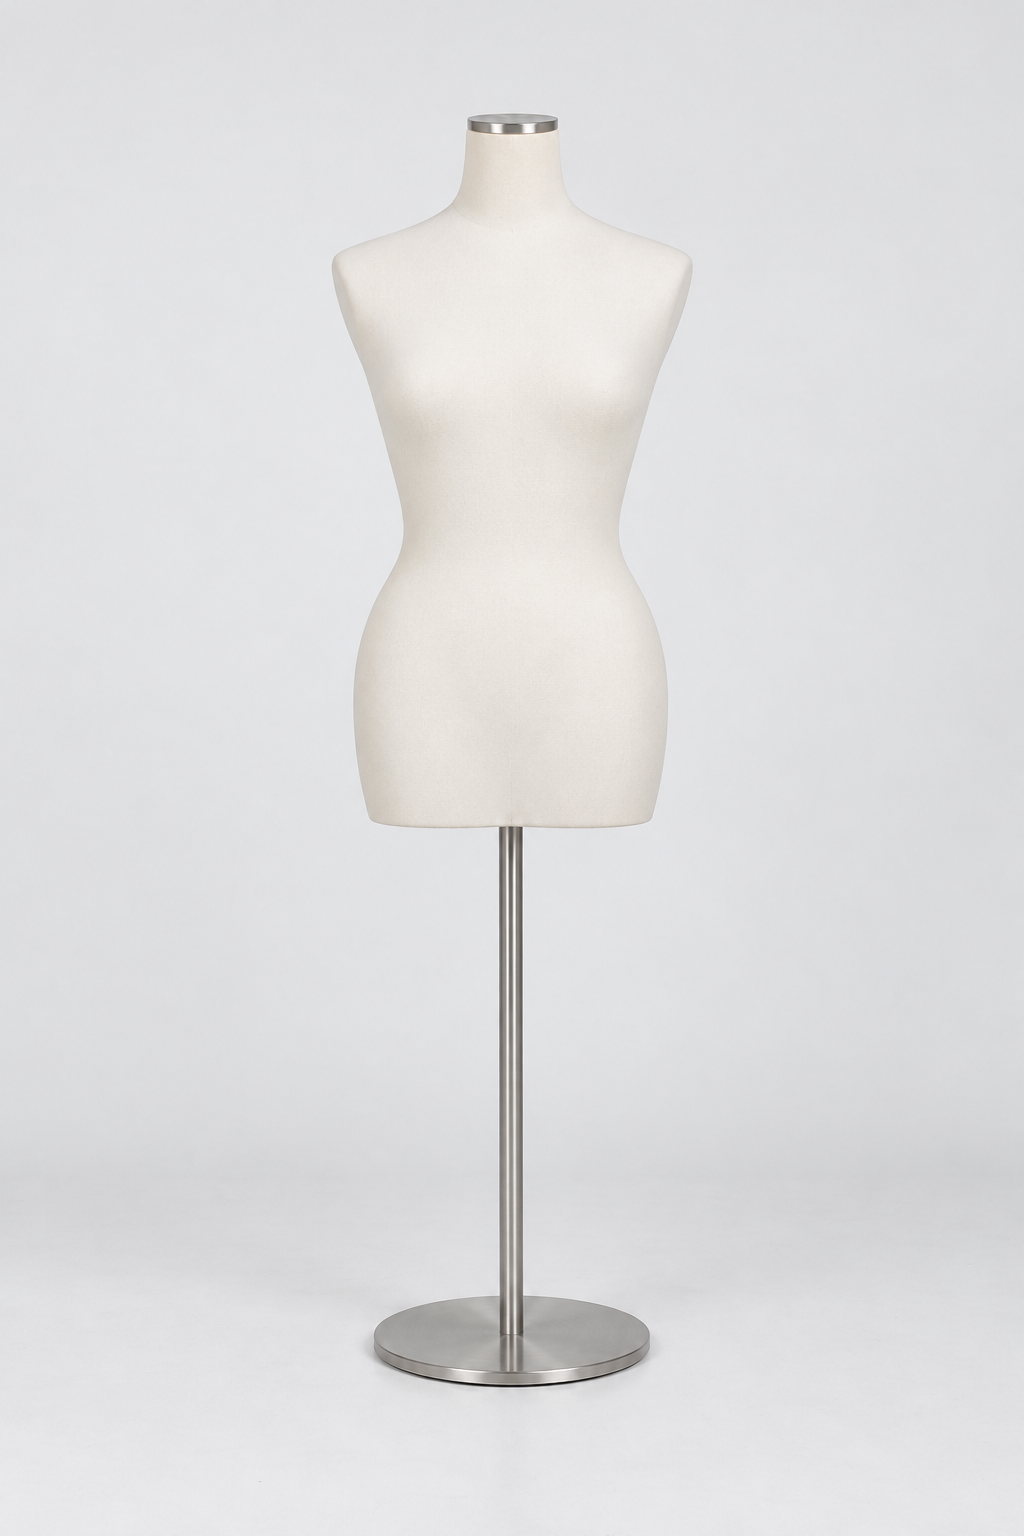
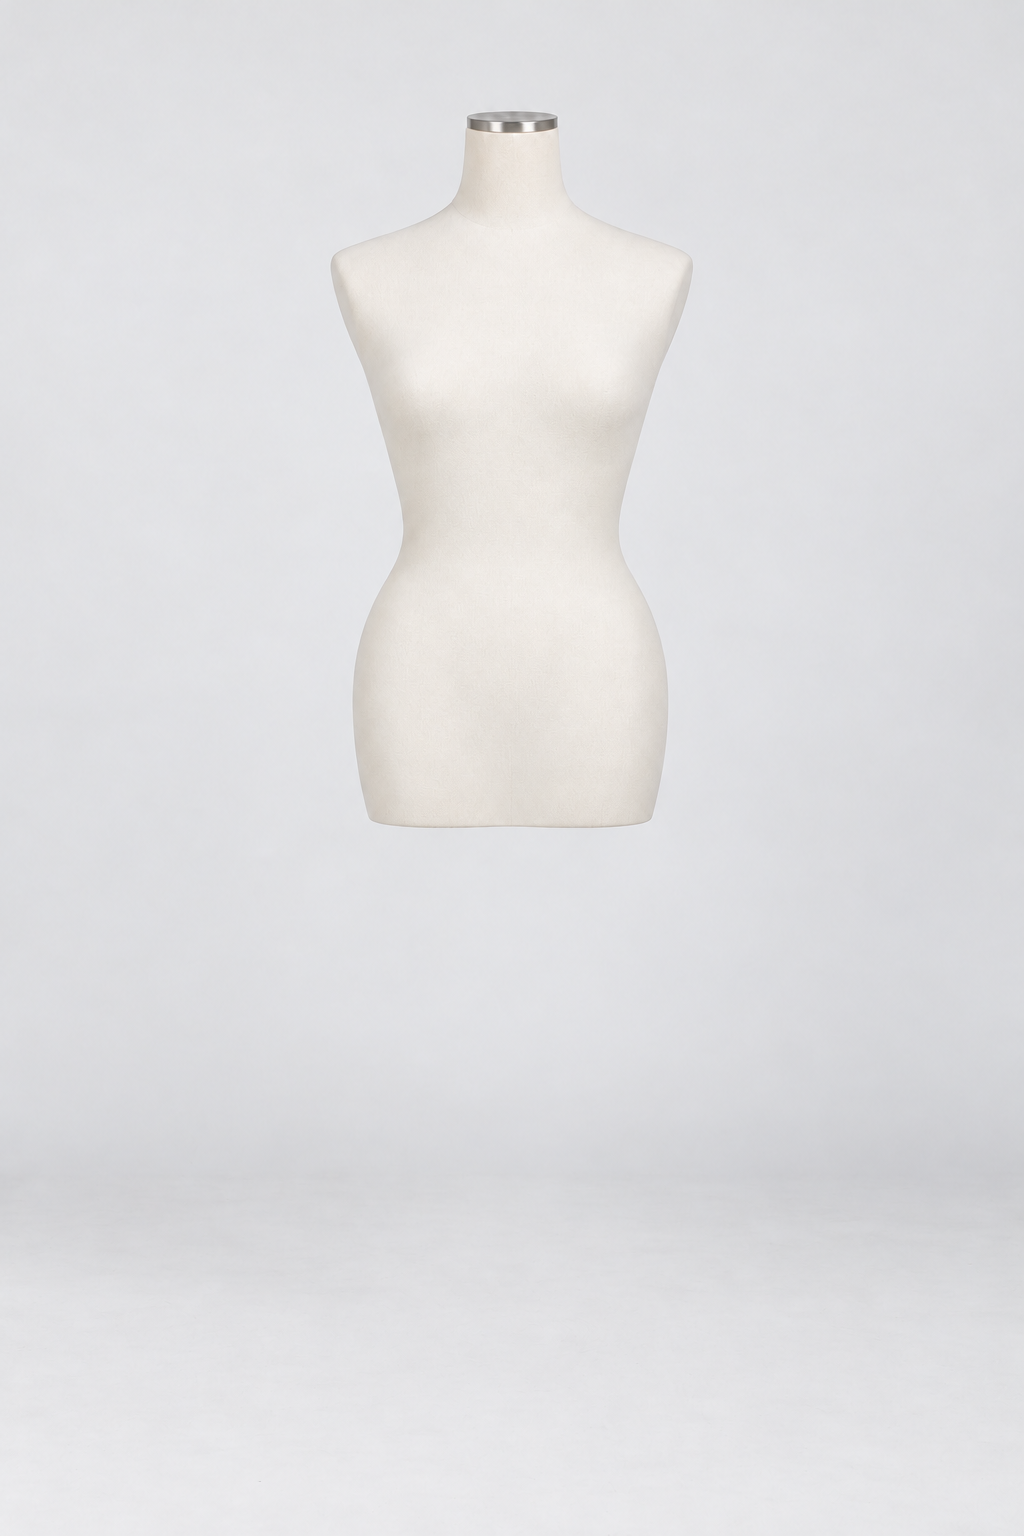
feat: generate standalone accessory images without mannequin stands

Changed region(s): [[0.3438, 0.5312, 0.6562, 0.9062], [0.4688, 0.0625, 0.5312, 0.0938]]

diff --git a/app/src/test/java/com/lolita/app/data/mannequin/MannequinGeneratorTest.kt b/app/src/test/java/com/lolita/app/data/mannequin/MannequinGeneratorTest.kt
@@ -1,11 +1,13 @@
 package com.lolita.app.data.mannequin
 
 import com.lolita.app.data.local.entity.Category
+import com.lolita.app.data.local.entity.CategoryGroup
 import com.lolita.app.data.local.entity.Item
 import com.lolita.app.data.local.entity.ItemStatus
 import com.lolita.app.data.tryon.TryOnGenerator
 import com.lolita.app.data.tryon.TryOnGenerationPhase
 import com.lolita.app.domain.model.MannequinRequest
+import com.lolita.app.domain.model.mannequinSubject
 import com.lolita.app.domain.model.TryOnRole
 import com.lolita.app.domain.model.TryOnSelection
 import kotlinx.coroutines.*
@@ -14,6 +16,45 @@ import org.junit.Test
 import java.io.File
 
 class MannequinGeneratorTest {
+    @Test fun accessorySendsOnlyItsSelectedPhotoWithoutAnyMannequinTemplate() = runBlocking {
+        Fixture().use { f ->
+            f.category = Category(id = 7, name = "袜子", group = CategoryGroup.ACCESSORY)
+            var uploaded = emptyList<ByteArray>()
+            var actualPrompt = ""
+            f.api = { _, images, prompt -> f.apiCalls++; uploaded = images; actualPrompt = prompt; "RESULT".toByteArray() }
+            f.generator().generate(f.request.copy(subject = mannequinSubject(f.category)))
+            assertEquals(1, f.apiCalls)
+            assertEquals(1, uploaded.size)
+            assertArrayEquals(byteArrayOf(1), uploaded.single())
+            assertTrue(actualPrompt.contains("\"袜子\""))
+            assertFalse(actualPrompt.contains("Edit image 1, the canonical empty warm-white tailoring mannequin"))
+            assertFalse(actualPrompt.contains("private name"))
+        }
+    }
+
+    @Test fun legacyDressRequestCannotSilentlyTurnIntoAnAccessoryRequest() = runBlocking {
+        Fixture().use { f ->
+            f.category = Category(id = 7, name = "KC", group = CategoryGroup.ACCESSORY)
+            f.api = { _, _, _ -> f.apiCalls++; "RESULT".toByteArray() }
+            val failure = runCatching { f.generator().generate(f.request) }.exceptionOrNull()
+            assertNotNull(failure)
+            assertEquals(0, f.apiCalls)
+        }
+    }
+
+    @Test fun renamedAccessoryDuringPreparationNeverReachesPaidTransport() = runBlocking {
+        Fixture().use { f ->
+            f.category = Category(id = 7, name = "KC", group = CategoryGroup.ACCESSORY)
+            val request = f.request.copy(subject = mannequinSubject(f.category))
+            f.beforePreparation = { f.category = f.category!!.copy(name = "鞋") }
+            f.api = { _, _, _ -> f.apiCalls++; "RESULT".toByteArray() }
+            val failure = runCatching { f.generator().generate(request) }.exceptionOrNull()
+            assertNotNull(failure)
+            assertTrue(failure!!.message.orEmpty().contains("分类"))
+            assertEquals(0, f.apiCalls)
+        }
+    }
+
     @Test fun staleDisclosedProviderCannotUploadOrProducePreview() = runBlocking {
         Fixture().use { f ->
             reject { f.generator().generate(f.request, expectedProvider = com.lolita.app.domain.model.ImageGenerationProvider.SEEDREAM) }
@@ -31,7 +72,9 @@ class MannequinGeneratorTest {
         var key = "sk-personal-key"
         var apiCalls = 0
         var saveCalls = 0
+        var beforePreparation: () -> Unit = {}
         var prepare: suspend (List<String>)->List<ByteArray> = { paths ->
+            beforePreparation()
             listOf("TEMPLATE".toByteArray()) + paths.map { File(it).readBytes() }
         }
         var api: suspend (String,List<ByteArray>,String)->ByteArray = { key, images, prompt ->
@@ -48,7 +91,8 @@ class MannequinGeneratorTest {
         fun generator() = MannequinGenerator(
             findItem={ item },findCategory={ category },readCredentials = { com.lolita.app.domain.model.ImageGenerationCredentials(com.lolita.app.domain.model.ImageGenerationProvider.OPENAI, key) },prepareImages={ prepare(it) },
             generateImage={ key, images, prompt -> api(key.apiKey,images,prompt) },savePreview={ save(it) },
-            discardPreview={ File(it).delete(); Unit }
+            discardPreview={ File(it).delete(); Unit },
+            prepareAccessoryImages={ paths -> beforePreparation(); paths.map { File(it).readBytes() } }
         )
         override fun close() { folder.deleteRecursively() }
     }

diff --git a/app/src/test/java/com/lolita/app/data/remote/MannequinApiTest.kt b/app/src/test/java/com/lolita/app/data/remote/MannequinApiTest.kt
@@ -1,0 +1,62 @@
+package com.lolita.app.data.remote
+
+import com.google.gson.JsonParser
+import com.lolita.app.domain.model.ImageGenerationCredentials
+import com.lolita.app.domain.model.ImageGenerationProvider
+import kotlinx.coroutines.runBlocking
+import org.junit.Assert.*
+import org.junit.Test
+import java.io.ByteArrayInputStream
+import java.io.ByteArrayOutputStream
+import java.net.HttpURLConnection
+import java.net.URL
+
+class MannequinApiTest {
+    private class Transport : HttpURLConnection(URL("https://example.invalid")) {
+        val uploaded = ByteArrayOutputStream()
+        override fun connect() = Unit
+        override fun disconnect() = Unit
+        override fun usingProxy() = false
+        override fun getResponseCode() = 200
+        override fun getOutputStream() = uploaded
+        override fun getInputStream() = ByteArrayInputStream("""{"data":[{"b64_json":"aW1hZ2U="}]}""".toByteArray())
+    }
+
+    @Test fun standaloneOnePhotoAndDressTwoPhotosReachEachProviderWithoutExtraTemplate() = runBlocking {
+        for (provider in ImageGenerationProvider.entries) for (count in listOf(1, 2)) {
+            val transport = Transport()
+            var calls = 0
+            var endpoint = ""
+            val open: (URL) -> HttpURLConnection = { calls++; endpoint = it.toString(); transport }
+            val api = ImageGenerationApi(TryOnImageApi(open), SeedreamImageApi(open))
+            val result = runCatching { api.generateMannequin(ImageGenerationCredentials(provider, "controlled-key"),
+                List(count) { "PHOTO$it".toByteArray() }, "selected product") }
+            assertTrue("$provider must accept $count selected display inputs", result.isSuccess)
+            assertArrayEquals("image".toByteArray(), result.getOrThrow())
+            assertEquals(1, calls)
+            val body = transport.uploaded.toString("UTF-8")
+            assertFalse(body.contains("controlled-key"))
+            if (provider == ImageGenerationProvider.SEEDREAM) {
+                assertEquals("https://ark.cn-beijing.volces.com/api/v3/images/generations", endpoint)
+                assertEquals(count, JsonParser.parseString(body).asJsonObject.getAsJsonArray("image").size())
+            } else {
+                assertEquals("https://api.openai.com/v1/images/edits", endpoint)
+                assertEquals(count, Regex("name=\"image\\[\\]\"").findAll(body).count())
+            }
+        }
+    }
+
+    @Test fun displayBoundaryRejectsZeroAndThreeInputsBeforeConnectionAndKeepsOldSingleInputBlocked() = runBlocking {
+        var calls = 0
+        val open: (URL) -> HttpURLConnection = { calls++; Transport() }
+        val api = ImageGenerationApi(TryOnImageApi(open), SeedreamImageApi(open))
+        for (provider in ImageGenerationProvider.entries) {
+            val credentials = ImageGenerationCredentials(provider, "controlled-key")
+            for (count in listOf(0, 3)) assertTrue(runCatching {
+                api.generateMannequin(credentials, List(count) { byteArrayOf(1) }, "display")
+            }.isFailure)
+            assertTrue(runCatching { api.generate(credentials, listOf(byteArrayOf(1)), "try on") }.isFailure)
+        }
+        assertEquals(0, calls)
+    }
+}

diff --git a/app/src/main/java/com/lolita/app/data/mannequin/MannequinGenerator.kt b/app/src/main/java/com/lolita/app/data/mannequin/MannequinGenerator.kt
@@ -6,7 +6,8 @@ import com.lolita.app.data.local.entity.Item
 import com.lolita.app.data.tryon.ImageGenerationGate
 import com.lolita.app.data.tryon.TryOnGenerationPhase
 import com.lolita.app.domain.model.MannequinRequest
-import com.lolita.app.domain.model.supportsMannequin
+import com.lolita.app.domain.model.MannequinPresentation
+import com.lolita.app.domain.model.mannequinSubject
 import kotlinx.coroutines.Dispatchers
 import kotlinx.coroutines.NonCancellable
 import kotlinx.coroutines.currentCoroutineContext
@@ -24,7 +25,8 @@ class MannequinGenerator(
     private val generateImage: suspend (ImageGenerationCredentials, List<ByteArray>, String) -> ByteArray,
     private val savePreview: suspend (ByteArray) -> String,
     private val discardPreview: suspend (String) -> Unit,
-    private val gate: ImageGenerationGate = ImageGenerationGate.process
+    private val gate: ImageGenerationGate = ImageGenerationGate.process,
+    private val prepareAccessoryImages: (suspend (List<String>) -> List<ByteArray>)? = null
 ) {
     val isGenerating: StateFlow<Boolean> = gate.isGenerating
 
@@ -44,8 +46,10 @@ class MannequinGenerator(
                 "请先在服务配置中填写有效的 API Key"
             }
             validateSource(request)
-            val images = prepareImages(listOf(request.imagePath))
-            require(images.size == 2 && images.all { it.isNotEmpty() }) {
+            val prepare = if (request.presentation == MannequinPresentation.ACCESSORY)
+                requireNotNull(prepareAccessoryImages) { "小物图片准备尚未接入" } else prepareImages
+            val images = prepare(listOf(request.imagePath))
+            require(images.size == request.presentation.inputCount && images.all { it.isNotEmpty() }) {
                 "参考图片未全部准备完成，请重新选择图片"
             }
             // Preparation may take time; reject an edit/delete that happened while decoding.
@@ -78,11 +82,13 @@ class MannequinGenerator(
         currentCoroutineContext().ensureActive()
         val item = findItem(request.itemId)
         require(item != null && item.id == request.itemId && request.imagePath in item.imageUrls) {
-            "裙子或参考图片已变更，请重新选择后生成"
+            "物品或参考图片已变更，请重新选择后生成"
         }
         val category = findCategory(item.categoryId)
-        require(category?.id == item.categoryId && supportsMannequin(category)) {
-            "此服饰类别暂不支持正面人台图，请核对裙子类别"
+        val currentSubject = mannequinSubject(category)
+        require(category?.id == item.categoryId && currentSubject != null &&
+            (request.subject?.let { it == currentSubject } ?: (currentSubject.presentation == MannequinPresentation.DRESS_FORM))) {
+            "物品分类已改变或暂不支持展示图，请重新核对分类"
         }
         val source = File(request.imagePath)
         require(source.isFile && source.canRead() && source.length() > 0) {

diff --git a/app/src/main/java/com/lolita/app/data/generation/ImageTaskRunner.kt b/app/src/main/java/com/lolita/app/data/generation/ImageTaskRunner.kt
@@ -38,7 +38,9 @@ class ImageTaskExecutor(
     private val preparePersonalModel: suspend (List<String>) -> List<ByteArray> = { error("专属模特图片准备尚未接入") },
     private val preparePersonalTryOn: (suspend (String, List<String>) -> List<ByteArray>)? = null,
     private val generatePersonalModel: suspend (ImageGenerationCredentials, List<ByteArray>, String) -> ByteArray = generateImage,
-    private val validateSourceImage: suspend (String) -> Boolean = { java.io.File(it).let { f -> f.isFile && f.canRead() && f.length() > 0 } }
+    private val validateSourceImage: suspend (String) -> Boolean = { java.io.File(it).let { f -> f.isFile && f.canRead() && f.length() > 0 } },
+    private val prepareAccessory: (suspend (List<String>) -> List<ByteArray>)? = null,
+    private val generateMannequin: suspend (ImageGenerationCredentials, List<ByteArray>, String) -> ByteArray = generateImage
 ) {
     suspend fun execute(task: ImageTask) {
         val credentials = kotlinx.coroutines.withContext(kotlinx.coroutines.Dispatchers.IO) { readCredentials(task.provider) }
@@ -60,8 +62,9 @@ class ImageTaskExecutor(
                 personalModelImagePath = request.modelImagePath(task.sourceImagePaths))
             ImageTaskKind.MANNEQUIN -> MannequinGenerator(
                 findItem = db.itemDao()::getItemById, findCategory = db.categoryDao()::getCategoryById,
-                readCredentials = { credentials }, prepareImages = prepareMannequin, generateImage = generateImage,
-                savePreview = { coordinator.publishMannequin(task.id, it) }, discardPreview = coordinator::discardUnownedImage
+                readCredentials = { credentials }, prepareImages = prepareMannequin, generateImage = generateMannequin,
+                savePreview = { coordinator.publishMannequin(task.id, it) }, discardPreview = coordinator::discardUnownedImage,
+                prepareAccessoryImages = prepareAccessory
             ).generate(MannequinRequest(request.garments.single().itemId, task.sourceImagePaths.single(), request.instructions, request.mannequinSubject),
                 expectedProvider = task.provider, beforeRequest = { coordinator.beforeRequest(task.id) })
         }

diff --git a/app/src/androidTest/java/com/lolita/app/data/MannequinInfrastructureTest.kt b/app/src/androidTest/java/com/lolita/app/data/MannequinInfrastructureTest.kt
@@ -15,6 +15,31 @@ import java.util.UUID
 
 @RunWith(AndroidJUnit4::class)
 class MannequinInfrastructureTest {
+    @Test fun accessoryPreparationReturnsOnlyTheNormalizedSourceAndPreservesOriginal() = runBlocking {
+        val target = InstrumentationRegistry.getInstrumentation().targetContext
+        val root = File(target.cacheDir, "accessory-images-${UUID.randomUUID()}").apply { mkdirs() }
+        try {
+            val source = File(root, "accessory.png")
+            val bitmap = Bitmap.createBitmap(2000, 1000, Bitmap.Config.ARGB_8888)
+            android.graphics.Canvas(bitmap).drawColor(android.graphics.Color.RED)
+            source.outputStream().use { bitmap.compress(Bitmap.CompressFormat.PNG, 100, it) }; bitmap.recycle()
+            val original = source.readBytes()
+            val images = TryOnImages(target).prepareAccessory(listOf(source.absolutePath))
+            assertEquals(1, images.size)
+            val result = BitmapFactory.decodeByteArray(images.single(), 0, images.single().size)
+            try {
+                assertEquals(1536, result.width); assertEquals(768, result.height)
+                val center = result.getPixel(result.width / 2, result.height / 2)
+                assertTrue(android.graphics.Color.red(center) > 245)
+                assertTrue(android.graphics.Color.green(center) < 10)
+            } finally { result.recycle() }
+            assertArrayEquals(original, source.readBytes())
+            for (paths in listOf(emptyList(), listOf(source.absolutePath, source.absolutePath), listOf("/missing.png"))) {
+                assertTrue(runCatching { TryOnImages(target).prepareAccessory(paths) }.isFailure)
+            }
+        } finally { root.deleteRecursively() }
+    }
+
     @Test fun frontTemplateIsFirstAndExactlyOneNormalizedGarmentFollowsWithoutChangingSource()=runBlocking {
         val target=InstrumentationRegistry.getInstrumentation().targetContext
         val root=File(target.cacheDir,"mannequin-images-${UUID.randomUUID()}").apply { mkdirs() }

diff --git a/app/src/main/java/com/lolita/app/di/AppModule.kt b/app/src/main/java/com/lolita/app/di/AppModule.kt
@@ -54,9 +54,10 @@ object AppModule {
             findCategory = { database.categoryDao().getCategoryById(it) },
             readCredentials = { _tryOnSettings.readCredentials() },
             prepareImages = _generationImages::prepareMannequin,
-            generateImage = _imageGenerationApi::generate,
+            generateImage = _imageGenerationApi::generateMannequin,
             savePreview = { ImageFileHelper.saveGeneratedImage(appContext, it) },
-            discardPreview = { ImageFileHelper.deleteImage(it) }
+            discardPreview = { ImageFileHelper.deleteImage(it) },
+            prepareAccessoryImages = _generationImages::prepareAccessory
         )
     }
     fun mannequinGenerator() = _mannequinGenerator
@@ -78,7 +79,9 @@ object AppModule {
             preparePersonalModel = _generationImages::preparePersonalModel,
             preparePersonalTryOn = _generationImages::prepareWithPersonalModel,
             generatePersonalModel = _imageGenerationApi::generatePersonalModel,
-            validateSourceImage = { ImageFileHelper.isOwnedReadableImage(appContext, it) })
+            validateSourceImage = { ImageFileHelper.isOwnedReadableImage(appContext, it) },
+            prepareAccessory = _generationImages::prepareAccessory,
+            generateMannequin = _imageGenerationApi::generateMannequin)
         com.lolita.app.data.generation.ImageTaskRunner(_imageTaskCoordinator, executor::execute)
     }
     fun imageTaskRunner() = _imageTaskRunner

diff --git a/app/src/main/java/com/lolita/app/data/tryon/TryOnImages.kt b/app/src/main/java/com/lolita/app/data/tryon/TryOnImages.kt
@@ -24,6 +24,11 @@ class TryOnImages(private val context: Context) {
         return prepareWithTemplate(paths, MANNEQUIN_ASSET)
     }
 
+    suspend fun prepareAccessory(paths: List<String>): List<ByteArray> {
+        require(paths.size == 1) { "请选择一张小物参考图" }
+        return prepareWithTemplate(paths, null)
+    }
+
     suspend fun preparePersonalModel(paths: List<String>): List<ByteArray> {
         require(paths.size in 0..3) { "最多选择三张模特参考照片" }
         return prepareWithTemplate(paths, MODEL_ASSET)
@@ -42,9 +47,10 @@ class TryOnImages(private val context: Context) {
         result
     }
 
-    private suspend fun prepareWithTemplate(paths: List<String>, template: String): List<ByteArray> = withContext(Dispatchers.IO) {
+    private suspend fun prepareWithTemplate(paths: List<String>, template: String?): List<ByteArray> = withContext(Dispatchers.IO) {
         currentCoroutineContext().ensureActive()
-        val result = mutableListOf(normalize { context.assets.open(template) })
+        val result = mutableListOf<ByteArray>()
+        if (template != null) result += normalize { context.assets.open(template) }
         for (path in paths) {
             currentCoroutineContext().ensureActive()
             val file = File(path)

diff --git a/app/src/main/java/com/lolita/app/data/remote/SeedreamImageApi.kt b/app/src/main/java/com/lolita/app/data/remote/SeedreamImageApi.kt
@@ -25,6 +25,9 @@ class SeedreamImageApi(private val connectionFactory: (URL) -> HttpURLConnection
     suspend fun generatePersonalModel(apiKey: String, images: List<ByteArray>, prompt: String): ByteArray =
         generateChecked(apiKey, images, prompt, 1..5)
 
+    suspend fun generateMannequin(apiKey: String, images: List<ByteArray>, prompt: String): ByteArray =
+        generateChecked(apiKey, images, prompt, 1..2)
+
     private suspend fun generateChecked(apiKey: String, images: List<ByteArray>, prompt: String, imageCount: IntRange): ByteArray {
         require(apiKey.isNotBlank() && apiKey.length <= 512 && apiKey.all { it.code in 33..126 }) { "请填写有效的 API Key" }
         require(images.size in imageCount && images.all { it.isNotEmpty() && it.size <= 10 * 1024 * 1024 } && images.sumOf { it.size.toLong() } <= 40L * 1024 * 1024) { "参考图片数量或大小超出限制" }

diff --git a/app/src/main/java/com/lolita/app/data/remote/TryOnImageApi.kt b/app/src/main/java/com/lolita/app/data/remote/TryOnImageApi.kt
@@ -26,6 +26,9 @@ class TryOnImageApi(private val connectionFactory: (URL) -> HttpURLConnection = 
     suspend fun generatePersonalModel(apiKey: String, images: List<ByteArray>, prompt: String): ByteArray =
         generateChecked(apiKey, images, prompt, 1..5)
 
+    suspend fun generateMannequin(apiKey: String, images: List<ByteArray>, prompt: String): ByteArray =
+        generateChecked(apiKey, images, prompt, 1..2)
+
     private suspend fun generateChecked(apiKey: String, images: List<ByteArray>, prompt: String, imageCount: IntRange): ByteArray {
         require(apiKey.isNotBlank() && apiKey.length <= 512 && apiKey.all { it.code in 33..126 }) { "请填写有效的 API Key" }
         require(images.size in imageCount && images.all { it.isNotEmpty() && it.size <= 10 * 1024 * 1024 } && images.sumOf { it.size.toLong() } <= 40L * 1024 * 1024) { "参考图片数量或大小超出限制" }

diff --git a/app/src/main/java/com/lolita/app/data/remote/ImageGenerationApi.kt b/app/src/main/java/com/lolita/app/data/remote/ImageGenerationApi.kt
@@ -7,6 +7,12 @@ class ImageGenerationApi(
     private val openAi: TryOnImageApi = TryOnImageApi(),
     private val seedream: SeedreamImageApi = SeedreamImageApi()
 ) {
+    suspend fun generateMannequin(credentials: ImageGenerationCredentials, images: List<ByteArray>, prompt: String): ByteArray =
+        when (credentials.provider) {
+            ImageGenerationProvider.OPENAI -> openAi.generateMannequin(credentials.apiKey, images, prompt)
+            ImageGenerationProvider.SEEDREAM -> seedream.generateMannequin(credentials.apiKey, images, prompt)
+        }
+
     suspend fun generate(credentials: ImageGenerationCredentials, images: List<ByteArray>, prompt: String): ByteArray =
         when (credentials.provider) {
             ImageGenerationProvider.OPENAI -> openAi.generate(credentials.apiKey, images, prompt)

diff --git a/docs/superpowers/plans/2026-10-16-mannequin-accessories.md b/docs/superpowers/plans/2026-10-16-mannequin-accessories.md
@@ -36,10 +36,10 @@
 **Files:** assets/mannequin/front-template.png、data/tryon/TryOnImages.kt、data/mannequin/MannequinGenerator.kt、data/remote/{ImageGenerationApi,TryOnImageApi,SeedreamImageApi}.kt、di/AppModule.kt；MannequinGeneratorTest、MannequinInfrastructureTest、两家API测试。
 **Interfaces:** `TryOnImages.prepareAccessory(paths: List<String>)`只归一化1张原图；`ImageGenerationApi.generateMannequin(credentials, images, prompt)`允许1..2；两provider提供对应方法。MannequinGenerator追加可选`prepareAccessoryImages`注入，null subject走DRESS_FORM，两次校验subject与最新类别相符。Executor追加可选accessory准备/专用生成注入，原构造兼容。
 
-- [ ] 先补真实Generator输入顺序/数量、分类在准备时改变阻止发送、配饰去人物提取提示、API专用1..2与旧2..9拒绝测试，运行观察RED。
-- [ ] 内置imagegen编辑原模板仅去杆/底座，目视确认完整躯干/原构图；保留完整提示词和SHA来源记录。
-- [ ] 实现单图准备、两provider专用入口、AppModule/Executor接线；原安全/取消/保存生命周期不改。
-- [ ] 定向JVM及独立AVD图片准备GREEN；提交`feat: generate standalone accessory images without mannequin stands`。
+- [x] 先补真实Generator输入顺序/数量、分类在准备时改变阻止发送、配饰去人物提取提示、API专用1..2与旧2..9拒绝测试，运行观察RED。
+- [x] 内置imagegen编辑原模板仅去杆/底座，目视确认完整躯干/原构图；保留完整提示词和SHA来源记录。
+- [x] 实现单图准备、两provider专用入口、AppModule/Executor接线；原安全/取消/保存生命周期不改。
+- [x] 定向JVM及独立AVD图片准备GREEN；提交`feat: generate standalone accessory images without mannequin stands`。
 
 ### Task 3: 详情、生成与任务确认页面
 
